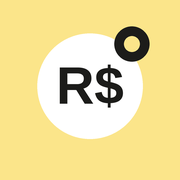
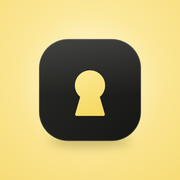
Nouvelle icône de l'appli : cadenas sur fond jaune, sans texte
icon-180/192/512 remplacées (plein cadre, iOS applique lui-même les coins
arrondis). Cache du service worker passé à v12.

Claude-Session: https://claude.ai/code/session_01WqVHvamwrQASxBdTF7QZbJ

diff --git a/sw.js b/sw.js
@@ -3,7 +3,7 @@
 // A rede é sempre consultada de novo ("no-cache"): o GitHub Pages deixa o navegador reutilizar a página por até
 // 10 minutos, e abrir o app logo antes da publicação terminar prendia a versão velha durante esse tempo.
 // Ao publicar uma nova versão do app, basta mudar o número abaixo.
-const CACHE = 'caixa-salva-v11';
+const CACHE = 'caixa-salva-v12';
 const ASSETS = ['./', './index.html', './manifest.webmanifest', './icon-180.png', './icon-192.png', './icon-512.png', './festa.jpg'];
 
 self.addEventListener('install', (e) => {
